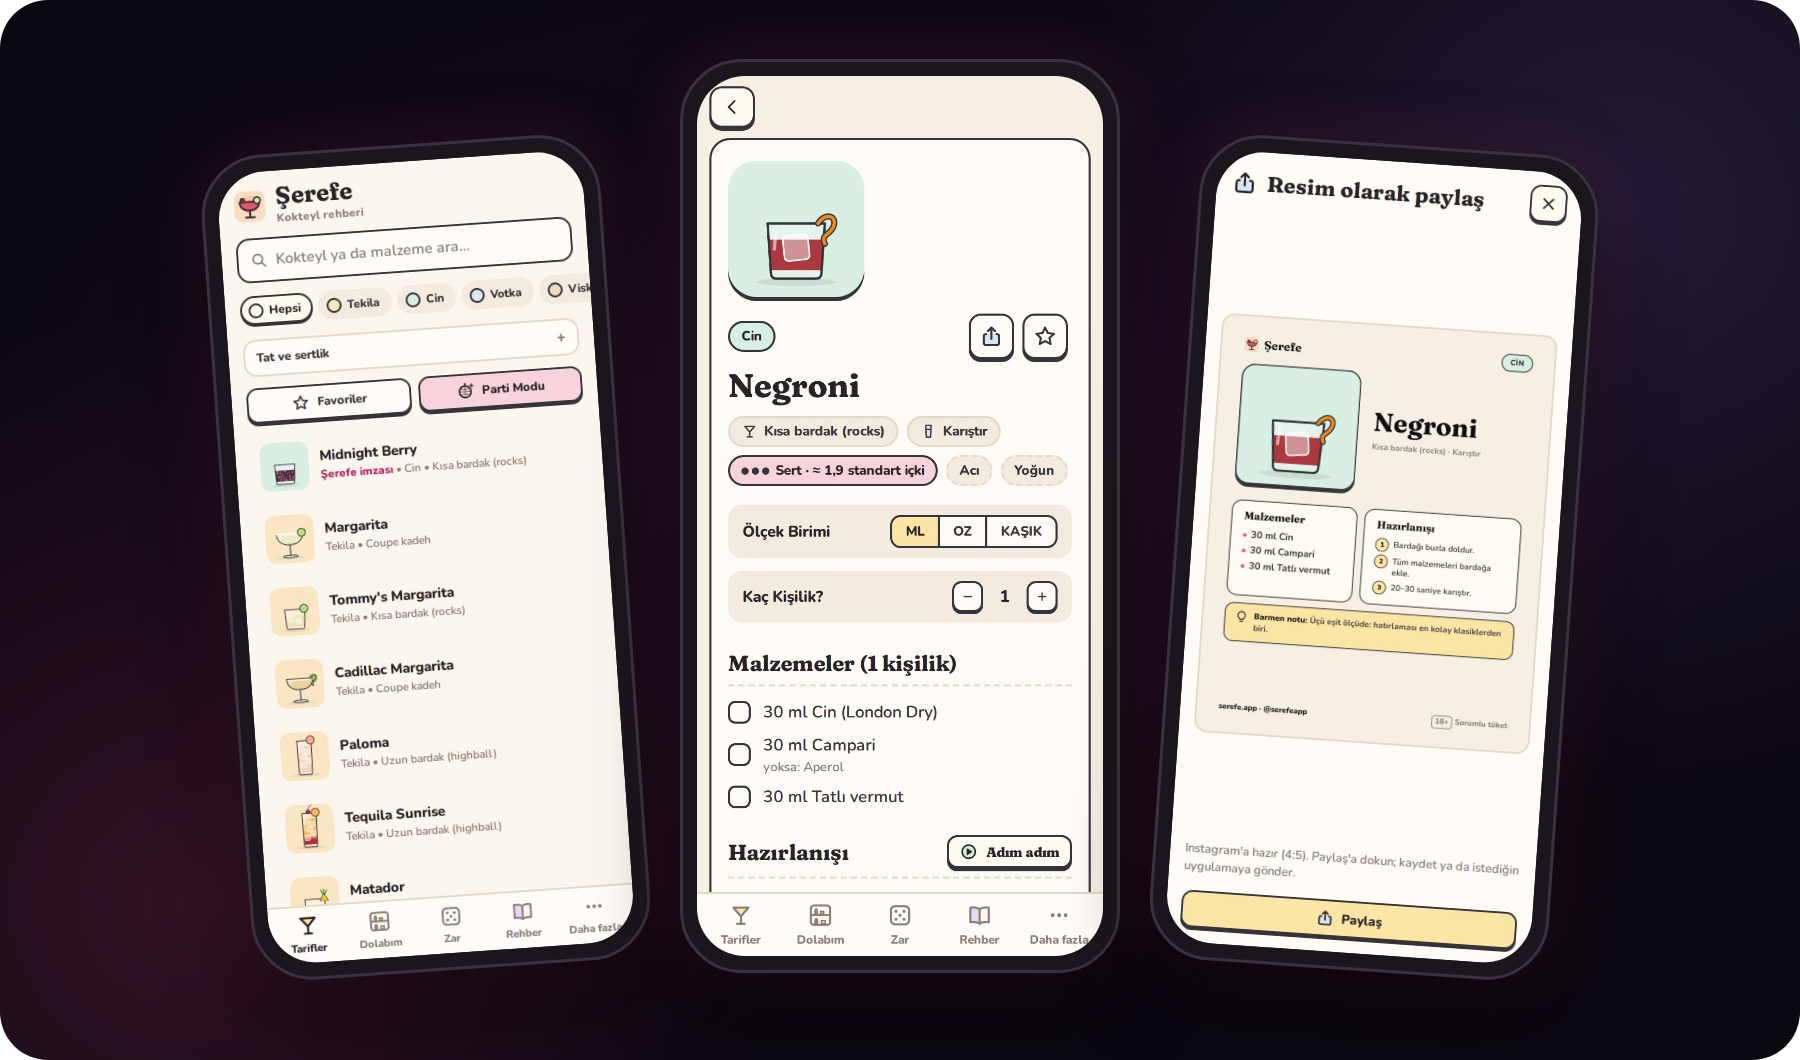
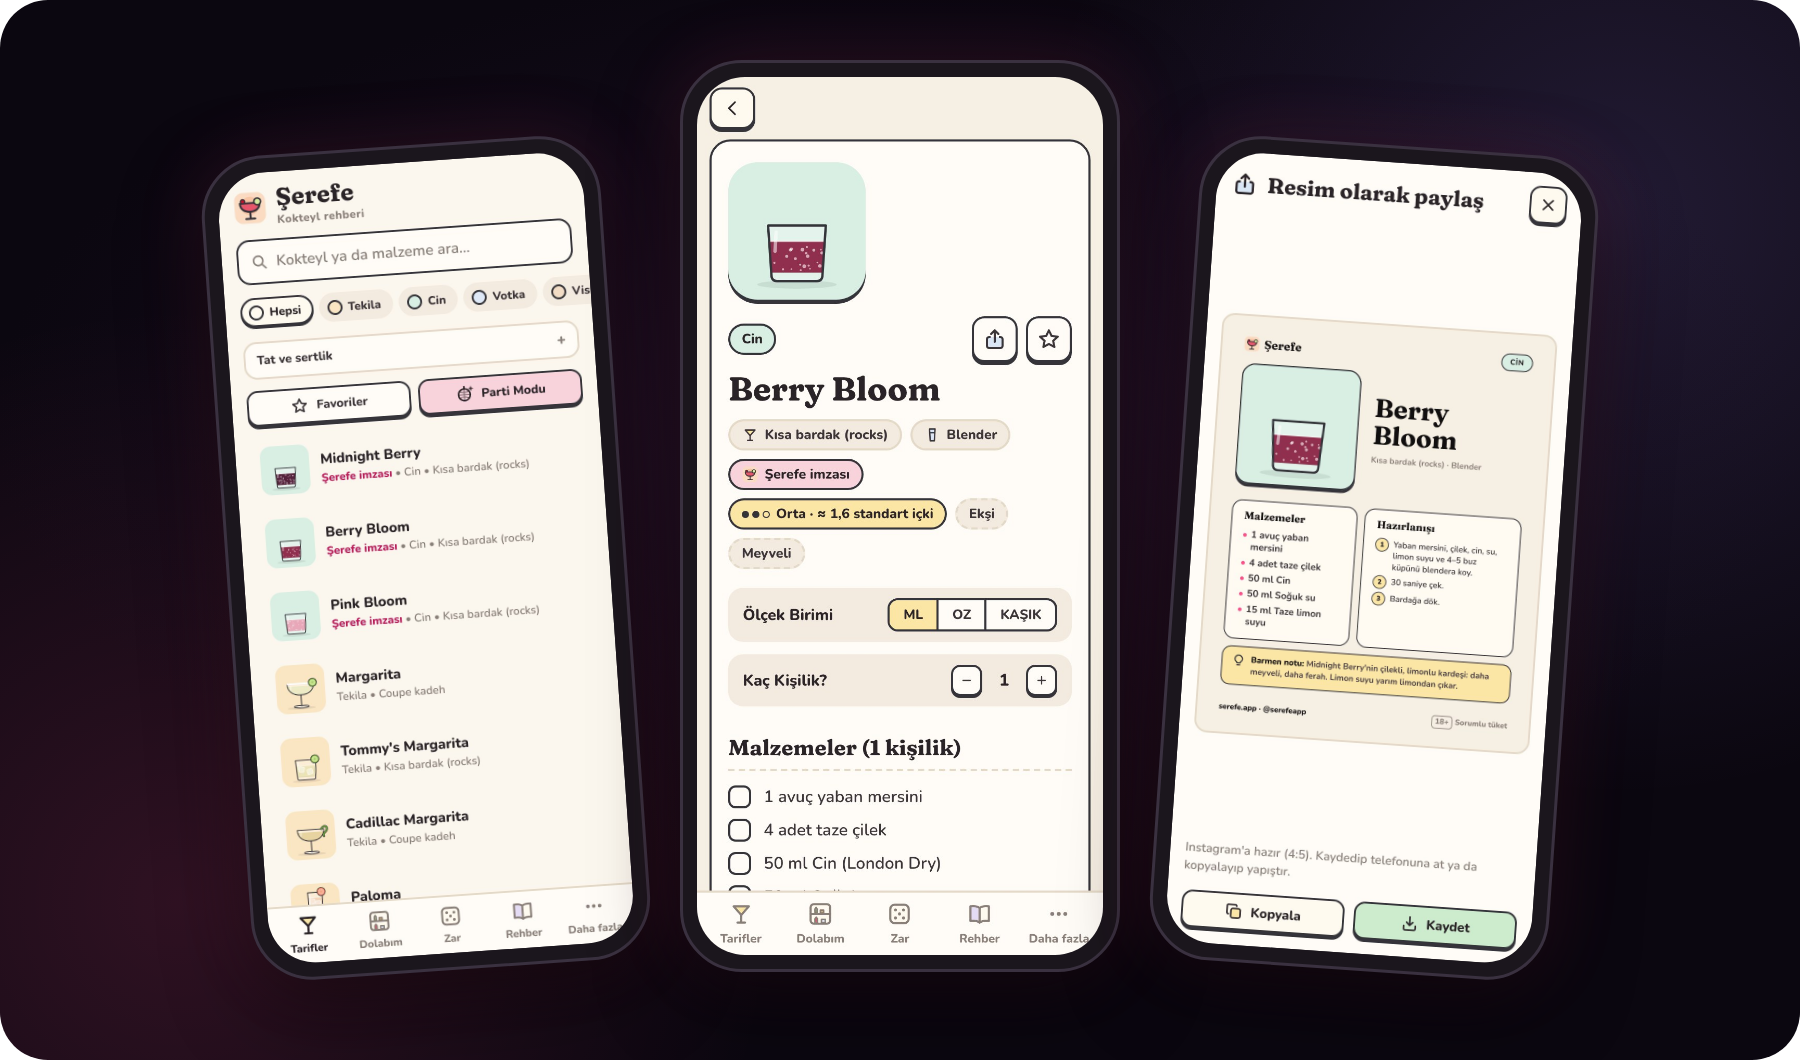
İngilizce sayfada İngilizce ekran görüntüleri; telefonlar ve masaüstü güncel

diff --git a/.github/english.md b/.github/english.md
@@ -26,7 +26,7 @@ No memorising recipes, no bar kit, no sign-up: tick what's in your cabinet, pick
 </p>
 
 <p align="center">
-  <img src="img/telefonlar.png" width="900" alt="Şerefe on a phone: recipe list, the Negroni recipe and the share-as-image screen">
+  <img src="img/telefonlar-en.png" width="900" alt="Şerefe on a phone: recipe list, the Berry Bloom recipe and the share-as-image screen">
 </p>
 
 <p align="center">
@@ -37,7 +37,7 @@ No memorising recipes, no bar kit, no sign-up: tick what's in your cabinet, pick
 
 Made for house parties on a big screen: open Party Mode when friends arrive and leave the menu up.
 
-<p align="center"><img src="img/uygulama.webp" width="820" alt="Şerefe desktop app: recipe screen"></p>
+<p align="center"><img src="img/uygulama-en.webp" width="820" alt="Şerefe desktop app: recipe screen"></p>
 
 <details>
 <summary><b>Seeing a warning on first launch?</b> (normal, you only confirm once)</summary>

diff --git a/README.md b/README.md
@@ -24,7 +24,7 @@ Tarif ezberlemek, bar ekipmanı ya da hesap açmak gerekmez: dolabını işaretl
 </p>
 
 <p align="center">
-  <img src=".github/img/telefonlar.png" width="900" alt="Telefonda Şerefe: tarif listesi, Negroni tarifi ve resim olarak paylaş ekranı">
+  <img src=".github/img/telefonlar.png" width="900" alt="Telefonda Şerefe: tarif listesi, Berry Bloom tarifi ve resim olarak paylaş ekranı">
 </p>
 
 <p align="center">
